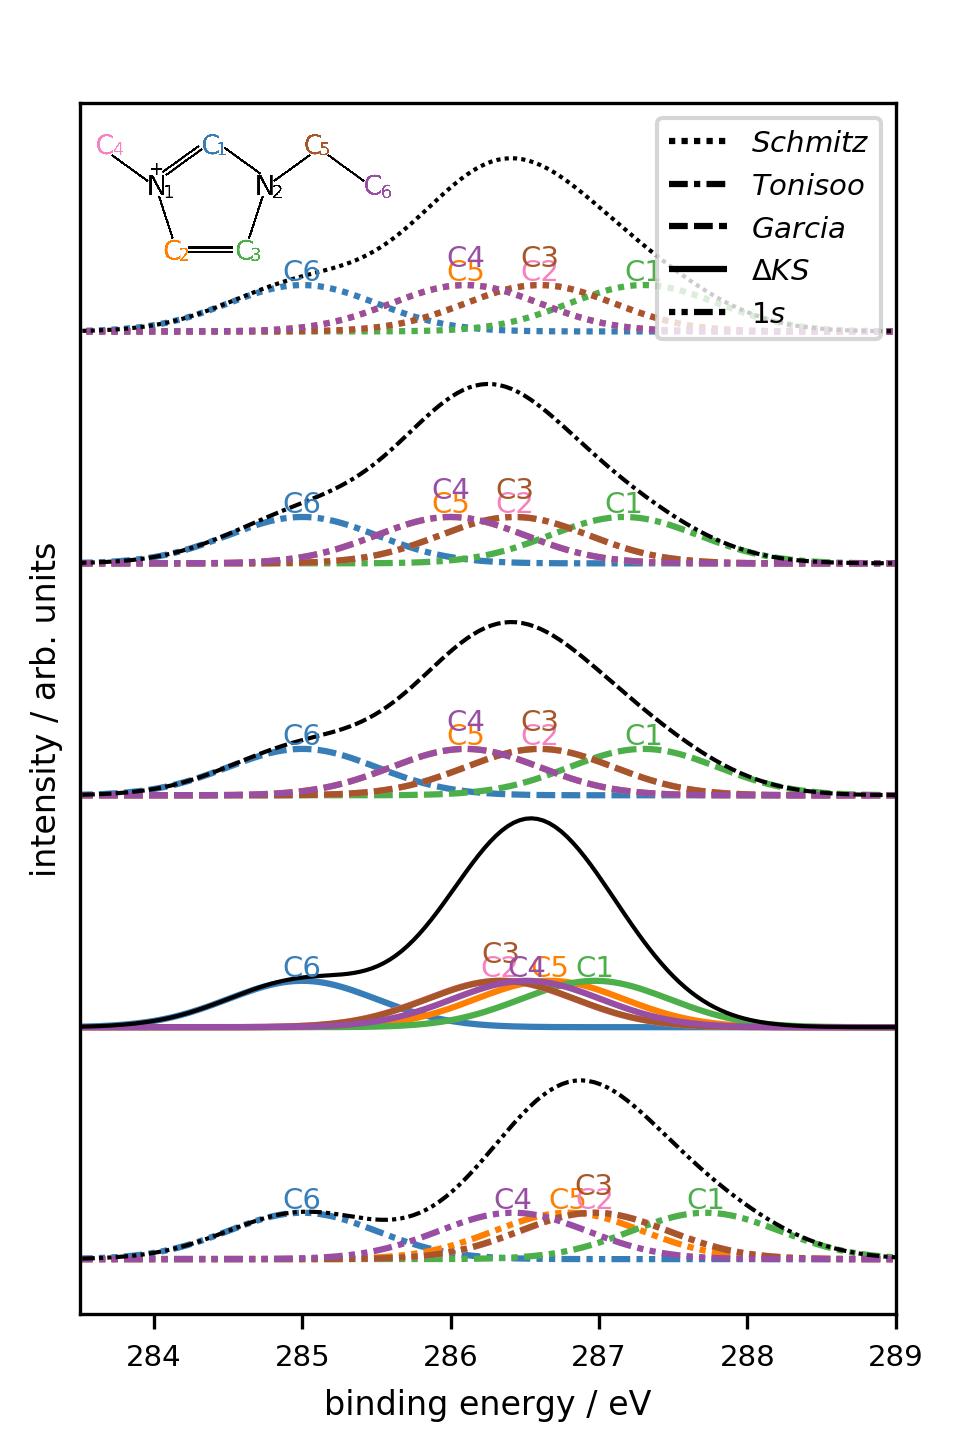
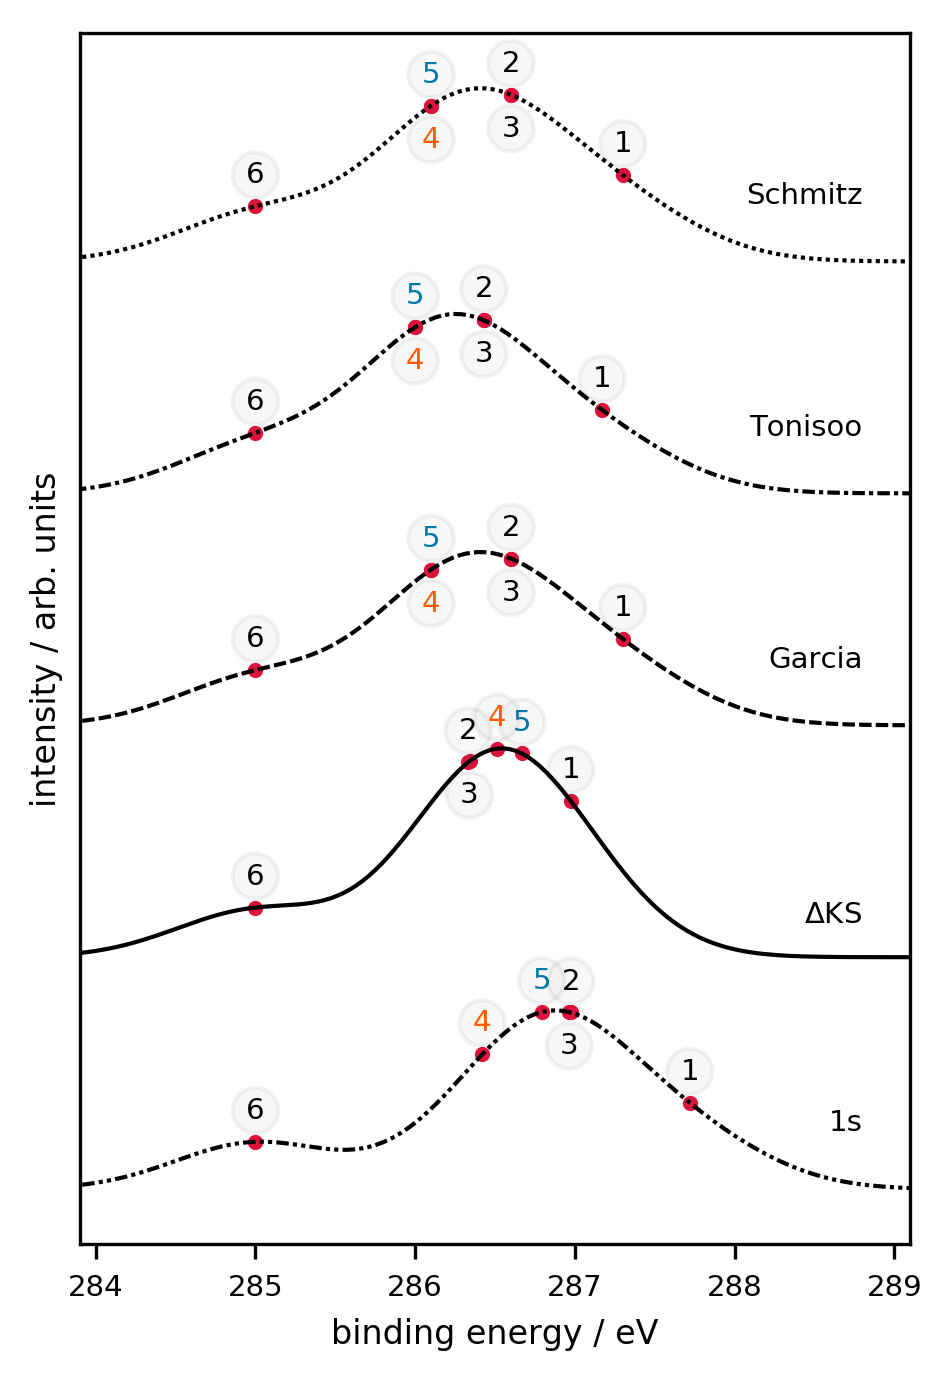
Replaced lines with labels at peak positions

diff --git a/figure2_clean.py b/figure2_clean.py
@@ -2,75 +2,89 @@ import matplotlib.pyplot as plt
 import numpy as np
 
 numberlist = ['1', '2', '3', '4', '5', '6', '7', '8', '9', '0']
-ncolors=['#377eb8', 
-		'#ff7f00',
-		'#4daf4a',
-		'#f781bf', 
-		'#a65628', 
-		'#984ea3', 
-		'#999999', 
-		'#e41a1c', 
-		'#dede00']
+# ncolors=['#377eb8','#ff7f00','#4daf4a','#f781bf', '#a65628', '#984ea3', '#999999', '#e41a1c', '#dede00'] #* Old colors
+
+ncolors=['k', 
+        '#0077aa',
+        'k',
+        'k', 
+        'k', 
+        '#ff5c00', 
+        'k', 
+        'k', 
+        'k']
 
 def readTheFile(filename):
-	m, atomname = [], []
-	# notatom=True
-	with open(filename) as f:
-		count = 0
-		for line in f:
-			count +=1
-			if count > 1 and count%2 == 1:
-				m.append(float(line[:-1]))
-			elif count > 1 and count%2 == 0:
-			    tmp = line.split()
-			    atomname.append(tmp[0])
-	return m, atomname
-					
+    m, atomname = [], []
+    # notatom=True
+    with open(filename) as f:
+        count = 0
+        for line in f:
+            count +=1
+            if count > 1 and count%2 == 1:
+                m.append(float(line[:-1]))
+            elif count > 1 and count%2 == 0:
+                tmp = line.split()
+                atomname.append(tmp[0])
+    return m, atomname
+                    
 def gaussian(x, m, s):
   return np.exp(-np.power((x - m), 2.) / (2 * np.power(s, 2.)))
 
 def getListOfAtoms(atom, m, atomname):
-	m_atom, atomname_atom = [], []
-	for i in range(len(atomname)):
-	    if len(atom) == 1:
-	        if atomname[i][0] == atom and atomname[i][1] in numberlist:
-	            m_atom.append(m[i])
-	            atomname_atom.append(atomname[i])
-	    else:
-	        if atomname[i][0:2] == atom:
-	            m_atom.append(m[i])
-	            atomname_atom.append(atomname[i])
-	
-	return m_atom, atomname_atom
+    m_atom, atomname_atom = [], []
+    for i in range(len(atomname)):
+        if len(atom) == 1:
+            if atomname[i][0] == atom and atomname[i][1] in numberlist:
+                m_atom.append(m[i])
+                atomname_atom.append(atomname[i])
+        else:
+            if atomname[i][0:2] == atom:
+                m_atom.append(m[i])
+                atomname_atom.append(atomname[i])
+    
+    return m_atom, atomname_atom
 
 def plotAtomSpectra(m, atomname, s, y_position, dashes):
-	atoms = ['C6', 'C5', 'C1', 'C2', 'C3', 'C4', 'X', 'Y']
-	t = []
-	w = np.linspace(min(m) - 3, max(m) + 3, 201)
-	# plot individual signals
-	for i in range(len(m)):
-	    plt.plot(w, gaussian(w, m[i], s) + y_position, label=atomname[i], color=ncolors[i], dashes=dashes)
-	    y_pos = 1.1
-	    for j in range(i):
-	        if abs(m[i] - m[j]) < 0.1:
-	            y_pos += 0.3	        
-	    plt.text(m[i], y_pos + y_position, atoms[i], horizontalalignment='center', rotation=0, size=7, color=ncolors[i])
-	# plot total signal
-	for j in range(len(w)):
-	  a = y_position
-	  for i in range(len(m)):
-	    a += gaussian(w[j], m[i], s)
-	  t.append(a)
-	return w, t
-	
+    atoms = ['6', '5', '1', '2', '3', '4', 'X', 'Y']
+    t = []
+    w = np.linspace(min(m) - 3, max(m) + 3, 201)
+    atombox = dict( boxstyle='circle', 
+                    facecolor='gray', 
+                    alpha=0.05)
+    # plot individual signals
+    for i in range(len(m)):
+        # plt.plot(w, gaussian(w, m[i], s) + y_position, label=atomname[i], color=ncolors[i], dashes=dashes)
+        y_pos = sum([gaussian(m[i],m[j],s) for j in range(len(m))])
+        plt.scatter(m[i],y_pos + y_position,color='crimson',s=7)
+        y_pos += 0.5 #* Offset
+        for j in range(i):
+            if abs(m[i] - m[j]) < 0.1:
+                y_pos += -1.4
+        # if i == 0: #* Lower C6
+        #     y_pos = 0
+        # if i == 2: #* Lower C1 but not as much
+        #     y_pos = 0.7
+        plt.text(m[i], y_pos + y_position, atoms[i], 
+                horizontalalignment='center', 
+                rotation=0, size=7, bbox = atombox,
+                color=ncolors[i])
+    # plot total signal
+    for j in range(len(w)):
+      a = y_position
+      for i in range(len(m)):
+        a += gaussian(w[j], m[i], s)
+      t.append(a)
+    return w, t
+    
 def plotFinalSpectra(lineW, dashes, y_pos):
-	w, t = [], []
-	m, atomname = [], []
-	m, atomname = readTheFile('./data/' + name + '/' + name + filename + '.out')
-	m_tmp, atomname = getListOfAtoms(atom, m, atomname)
-	m2 = [x+aliphatic-m_tmp[0] for x in m_tmp]
-	w, t = plotAtomSpectra(m2, atomname , s, y_pos, dashes)
-	plt.plot(w, t, linewidth=lineW, color='k', dashes=dashes)	
+    w, t = [], []
+    m, atomname = [], []
+    m, atomname = readTheFile('./data/' + name + '/' + name + filename + '.out')
+    m_tmp, atomname = getListOfAtoms(atom, m, atomname)
+    m2 = [x+aliphatic-m_tmp[0] for x in m_tmp]
+    w, t = plotAtomSpectra(m2, atomname , s, y_pos, dashes)
+    plt.plot(w, t, linewidth=lineW, color='k', dashes=dashes)	
 ########################################################
 s = 0.5
 atom = 'C'
@@ -102,31 +116,43 @@ plotFinalSpectra(linewidth, [1,1], 3*scale_factor)
 filename='_1s'
 plotFinalSpectra(linewidth, [1,1,1,1,3,1], -scale_factor)
 
-from matplotlib.lines import Line2D
-legend_elements = []
-legend_elements.append(Line2D([0], [0], dashes=[1,1], color='k', label=r"$Schmitz$", markersize=10))
-legend_elements.append(Line2D([0], [0], dashes=[3,1,1,1], color='k', label=r"$Tonisoo$", markersize=10))
-legend_elements.append(Line2D([0], [0], dashes=[3,1,3,1], color='k', label=r"$Garcia$", markersize=10))
-legend_elements.append(Line2D([0], [0], dashes=[1,0], color='k', label=r"${\Delta}KS$", markersize=10))
-legend_elements.append(Line2D([0], [0], dashes=[1,1,1,1,3,1], color='k', label=r"$1s$", markersize=10))
-params = {'legend.fontsize': 7,
-          'legend.handlelength': 2}
-plt.rcParams.update(params)
-plt.legend(handles=legend_elements, loc='upper right')
-plt.xlim(283.5,289)
+# from matplotlib.lines import Line2D
+# legend_elements = []
+# legend_elements.append(Line2D([0], [0], dashes=[1,1], color='k', label=r"$Schmitz$", markersize=10))
+# legend_elements.append(Line2D([0], [0], dashes=[3,1,1,1], color='k', label=r"$Tonisoo$", markersize=10))
+# legend_elements.append(Line2D([0], [0], dashes=[3,1,3,1], color='k', label=r"$Garcia$", markersize=10))
+# legend_elements.append(Line2D([0], [0], dashes=[1,0], color='k', label=r"${\Delta}KS$", markersize=10))
+# legend_elements.append(Line2D([0], [0], dashes=[1,1,1,1,3,1], color='k', label=r"$1s$", markersize=10))
+# params = {'legend.fontsize': 7,
+#           'legend.handlelength': 2}
+# plt.rcParams.update(params)
+# plt.legend(handles=legend_elements, loc='upper right')
+
+#* Legend
+
+legends = [ [288.8, 16.25, r"Schmitz"],
+			[288.8, 11.25, r"Tonisoo"],
+			[288.8,  6.25, r"Garcia"],
+			[288.8,  0.75, r"$\Delta$KS"],
+			[288.8, -3.75, r"1s"]]
+
+for item in legends:
+	plt.text(*item, horizontalalignment='right', rotation=0, size=7, color='k')
+
+plt.xlim(283.9,289.1)
 plt.ylabel("intensity / arb. units",fontsize=8)
 plt.xlabel("binding energy / eV",fontsize=8)
 plt.xticks(fontsize=7)
 plt.yticks([])
 
-from matplotlib.cbook import get_sample_data
-path="EMIm.png"
-im = plt.imread(path)
+# from matplotlib.cbook import get_sample_data
+# path="EMIm.png"
+# im = plt.imread(path)
 
-newax = fig.add_axes([0.11, 0.64, 0.3, 0.3], anchor='NE', zorder=1)
-plt.imshow(im)
-newax.imshow(im)
-newax.axis('off')
+# newax = fig.add_axes([0.11, 0.64, 0.3, 0.3], anchor='NE', zorder=1)
+# plt.imshow(im)
+# newax.imshow(im)
+# newax.axis('off')
 #newax.axes.set_yticklabels([])
 
 plt.xticks(fontsize=7)
